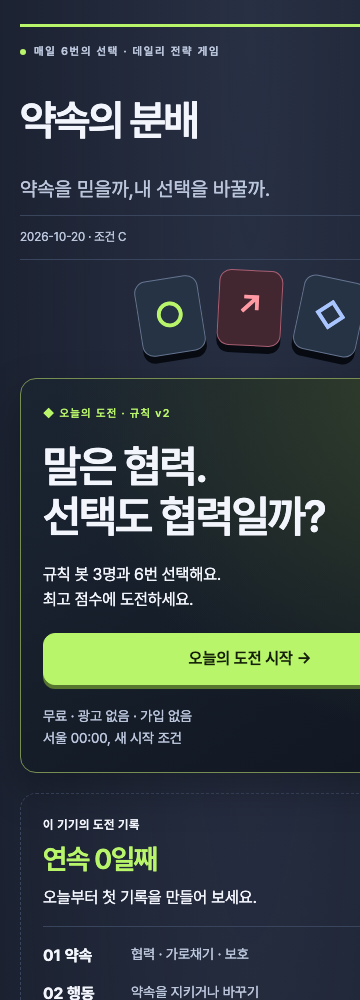
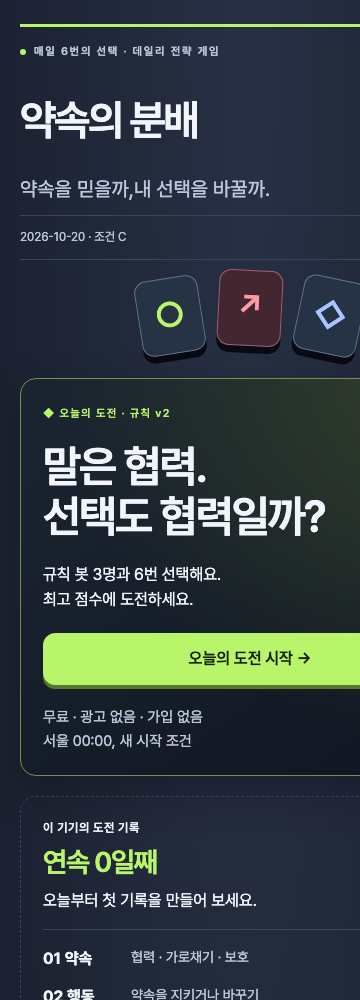
Loop 게시: promise-split

Changed region(s): [[0.1222, 0.806, 0.7028, 1.0], [0.1222, 0.713, 0.55, 0.744], [0.0611, 0.744, 0.0917, 0.775]]

diff --git a/promise-split/app.js b/promise-split/app.js
@@ -33,14 +33,14 @@ if(state.phase==='action')html+='<div class="card"><h3>공개된 약속</h3>'+na
 else html+='<p>봇의 약속은 내가 확정한 뒤 함께 공개돼요. 실제 행동은 다음 단계에서 바꿀 수 있어요.</p>';
 html+=choiceButtons()+`<details><summary>현재 전체 점수</summary>${scores()}</details>`;}
 else if(state.phase==='reveal'){const h=state.history.at(-1);html=summary()+`<div class="card stack reveal"><h2 class="play-heading" tabindex="-1">가로채기 ${h.k}명</h2><p>${h.k===0?'모두 가로채지 않았어요. 협력 +3, 보호 +1.':h.k===1?'한 명만 가로챘어요. 가로채기 +5, 협력 −2, 보호 0.':'가로채기가 겹쳤어요. 가로채기 −2, 협력 0, 보호 +1.'} 최저 점수는 0점이에요.</p>${names.map((n,i)=>`<p><strong>${n} ${h.deltas[i]>0?'+':''}${h.deltas[i]}점</strong><br><span class="meta">약속 ${h.promises[i]} ${labels[h.promises[i]]} → 행동 ${h.actions[i]} ${labels[h.actions[i]]}${h.promises[i]===h.actions[i]?' · 지킴':' · 바꿈'}</span></p>`).join('')}</div><button class="primary" id="next">${state.round===6?'최종 결과 보기':'다음 라운드 →'}</button>`;}
-else{const r=E.result(state);html=`<h2 class="play-heading" tabindex="-1">${state.mode==='practice'?'연습 완료':'오늘의 도전 완료'}</h2><div class="card stack"><p>${outcomeText(r)}</p><p>${r.tied?'공동 ':''}${r.rank}위 · 4명 중</p><p class="meta">🟩 승리 · 🟥 패배 · 🟨 무승부<br>공동 1위는 완료·연속 기록에 포함하고 승리에는 포함하지 않아요.</p><div class="result-score"><b class="score">${r.score}</b><strong>점</strong></div><p>약속 ${r.kept}/6번 지킴</p></div><div><div class="grid6" aria-label="라운드별 점수 변화">${r.deltas.map((d,i)=>`<span class="tile ${d>0?'gain':d<0?'loss':''}" aria-label="${i+1}라운드 ${d>0?'증가':d<0?'감소':'동일'}">${d>0?'+':d<0?'−':'='}</span>`).join('')}</div><p class="grid-description">1 → 6라운드 · + 증가 / = 동일 / − 감소<br>약속 준수와 별개인 실제 점수 변화예요.</p></div><p><strong>연속 기록 ${streak()}일째</strong><br>${streak()===0?'오늘부터 다시 시작해요.<br>':''}내일은 새 조건으로 다시 만나요.<br><span class="meta">서울 00:00 · 날짜가 바뀌면 새 도전을 열어주세요.</span></p><div class="result-actions"><button id="share" class="primary">결과 공유 · 너는 몇 점?</button><button id="copy">결과 복사</button><textarea id="fallback" aria-label="복사할 결과 텍스트" readonly hidden></textarea><button id="practice">같은 조건으로 연습</button><button id="today">오늘의 도전 열기</button></div>${hostPackCTA()}<details><summary>6라운드 전체 기록</summary><div class="logs">${state.history.map(h=>`<article><b>${h.round}라운드 · 가로채기 k=${h.k}</b>${names.map((n,i)=>`<p>${n}: 약속 ${h.promises[i]} → 행동 ${h.actions[i]}<br>${h.deltas[i]>=0?'+':''}${h.deltas[i]}점 → ${h.scores[i]}점</p>`).join('')}</article>`).join('')}</div></details>${scores()}`;}
+else{const r=E.result(state);html=`<h2 class="play-heading" tabindex="-1">${state.mode==='practice'?'연습 완료':'오늘의 도전 완료'}</h2><div class="card stack"><p>${outcomeText(r)}</p><p>${r.tied?'공동 ':''}${r.rank}위 · 4명 중</p><p class="meta">🟩 승리 · 🟥 패배 · 🟨 무승부<br>공동 1위는 완료·연속 기록에 포함하고 승리에는 포함하지 않아요.</p><div class="result-score"><b class="score">${r.score}</b><strong>점</strong></div><p>약속 ${r.kept}/6번 지킴</p></div><div><div class="grid6" aria-label="라운드별 점수 변화">${r.deltas.map((d,i)=>`<span class="tile ${d>0?'gain':d<0?'loss':''}" aria-label="${i+1}라운드 ${d>0?'증가':d<0?'감소':'동일'}">${d>0?'+':d<0?'−':'='}</span>`).join('')}</div><p class="grid-description">1 → 6라운드 · + 증가 / = 동일 / − 감소<br>약속 준수와 별개인 실제 점수 변화예요.</p></div><p><strong>연속 기록 ${streak()}일째</strong><br>${streak()===0?'오늘부터 다시 시작해요.<br>':''}내일은 새 조건으로 다시 만나요.<br><span class="meta">서울 00:00 · 날짜가 바뀌면 새 도전을 열어주세요.</span></p><p class="share-quote">약속 ${r.kept}번, 결과 ${r.score}점.<br>내 선택은 어떤 전략이었을까?</p><div class="result-actions"><button id="share" class="primary">결과 공유 · 너는 몇 점?</button><button id="copy">결과 복사</button><textarea id="fallback" aria-label="복사할 결과 텍스트" readonly hidden></textarea><button id="practice">같은 조건으로 연습</button><button id="today">오늘의 도전 열기</button></div>${hostPackCTA()}<details><summary>6라운드 전체 기록</summary><div class="logs">${state.history.map(h=>`<article><b>${h.round}라운드 · 가로채기 k=${h.k}</b>${names.map((n,i)=>`<p>${n}: 약속 ${h.promises[i]} → 행동 ${h.actions[i]}<br>${h.deltas[i]>=0?'+':''}${h.deltas[i]}점 → ${h.scores[i]}점</p>`).join('')}</article>`).join('')}</div></details>${scores()}`;}
 $('game').innerHTML=html;bind();if(focus)$('game').querySelector('.play-heading')?.focus();}
 function bind(){document.querySelectorAll('[data-choice]').forEach(b=>b.onclick=()=>{selected=b.dataset.choice;document.querySelectorAll('[data-choice]').forEach(x=>x.setAttribute('aria-pressed',String(x===b)));$('confirm').disabled=false;$('confirm').textContent=(state.phase==='promise'?'약속':'실제 행동')+' 확정 · '+labels[selected];});if($('start'))$('start').onclick=()=>start(targetDate,targetDate<E.day()?'practice':'daily');if($('reload'))$('reload').onclick=()=>location.reload();if($('confirm'))$('confirm').onclick=()=>advance(()=>state.phase==='promise'?E.promise(state,selected):E.act(state,selected));if($('next'))$('next').onclick=()=>advance(()=>E.next(state));if($('share'))$('share').onclick=()=>share(false);if($('copy'))$('copy').onclick=()=>share(true);if($('practice'))$('practice').onclick=()=>start(state.date,'practice');if($('today'))$('today').onclick=()=>{location.href=location.pathname+'?v=2';};}
 function advance(fn){if(locked||!state)return;const previous=state;const n=fn();state=n;if(!persist()){state=previous;return;}if(state.phase==='result')finish();render(true);}
 function start(date,mode){if(mode==='daily'){const raw=read(PREFIX+'daily:'+date);if(raw){try{const x=JSON.parse(raw);if(E.validate(x)&&x.date===date&&x.mode==='daily'){state=x;rev=raw;if(state.phase==='result')finish();render();return;}}catch{}warn('이 날짜의 저장 기록을 복원할 수 없어 새로 시작해요.');}rev=raw;}
 state=E.create(date,mode);if(!persist())return;count(mode==='daily'?'start':'practice_start');render(true);}
 function outcomeText(r){return r.rank===1?(r.tied?'🟨 무승부 (공동 1위)':'🟩 단독 승리'):'🟥 패배';}
-function shareText(){const r=E.result(state);const base=location.protocol==='https:'&&location.hostname!=='localhost'&&location.hostname!=='127.0.0.1'?location.origin+location.pathname.replace(/index\.html$/,''):'https://leekyounglyul.github.io/gatsaeng/promise-split/';return `약속의 분배 ${state.date} · v2 · 조건 ${'ABC'[E.condition(state.date)]}${state.mode==='practice'?' · 연습':''}\n${outcomeText(r)}\n${r.tied?'공동 ':''}${r.rank}위 · ${r.score}점 · 약속 ${r.kept}/6\n${r.deltas.map(d=>d>0?'🟩':d<0?'🟥':'⬜').join('')}\n최종 결과: 🟩 승리 / 🟥 패배 / 🟨 무승부\n라운드 점수: 🟩 증가 / 🟥 감소 / ⬜ 동일\n증가·동일·감소: ${r.deltas.map(d=>d>0?'+':d<0?'−':'=').join(' ')}\n너는 몇 점? ${base}?date=${state.date}&v=2`;}
+function shareText(){const r=E.result(state);const base=location.protocol==='https:'&&location.hostname!=='localhost'&&location.hostname!=='127.0.0.1'?location.origin+location.pathname.replace(/index\.html$/,''):'https://leekyounglyul.github.io/gatsaeng/promise-split/';return `약속의 분배 ${state.date} · v2 · 조건 ${'ABC'[E.condition(state.date)]}${state.mode==='practice'?' · 연습':''}\n${outcomeText(r)}\n약속 ${r.kept}번, 결과 ${r.score}점. 내 선택은 어떤 전략이었을까?\n${r.tied?'공동 ':''}${r.rank}위 · ${r.score}점 · 약속 ${r.kept}/6\n${r.deltas.map(d=>d>0?'🟩':d<0?'🟥':'⬜').join('')}\n최종 결과: 🟩 승리 / 🟥 패배 / 🟨 무승부\n라운드 점수: 🟩 증가 / 🟥 감소 / ⬜ 동일\n증가·동일·감소: ${r.deltas.map(d=>d>0?'+':d<0?'−':'=').join(' ')}\n너는 몇 점? ${base}?date=${state.date}&v=2`;}
 async function share(copyOnly){const text=shareText();count('share_intent');if(!copyOnly&&navigator.share){try{await navigator.share({text});$('feedback').textContent='공유 창을 닫았어요.';return;}catch(e){if(e.name==='AbortError'){count('share_cancel');return;}}}try{await navigator.clipboard.writeText(text);$('feedback').textContent='결과를 복사했어요.';}catch{$('fallback').hidden=false;$('fallback').value=text;$('fallback').focus();$('fallback').select();$('feedback').textContent='텍스트를 길게 누르거나 선택해 복사하세요.';}}
 window.addEventListener('storage',e=>{if(state?.mode==='daily'&&e.key===key()&&e.newValue!==rev){locked=true;warn('다른 탭에서 기록이 바뀌었어요.');render();}});
 $('tutorial').onclick=()=>{const box=$('trial');box.hidden=false;box.innerHTML='<p>체험: 봇이 C·C·G를 골랐어요. 나는?</p>'+E.A.map(a=>`<button data-trial="${a}">${a} ${labels[a]}</button>`).join('');box.querySelectorAll('button').forEach(b=>b.onclick=()=>{const x=E.score([b.dataset.trial,'C','C','G'],[10,10,10,10]);box.innerHTML=`<p>나는 ${labels[b.dataset.trial]}! ${x.deltas[0]>=0?'+':''}${x.deltas[0]}점 → ${x.scores[0]}점.</p><p class="meta">체험은 기록에 남지 않아요. 사용법 버튼으로 다시 열 수 있어요.</p>`;});};

diff --git a/promise-split/index.html b/promise-split/index.html
@@ -20,6 +20,14 @@ summary{min-height:52px;color:var(--ps-ink);font-size:15px}details{border-top:1p
 @media(min-width:700px){.shell{padding-top:40px}.hero h1{font-size:42px}}
 @media(max-width:359px){.shell{padding-left:16px;padding-right:16px}.hero{grid-template-columns:minmax(0,1fr) 68px}.hero .stage-emblem{width:68px;height:68px}.card{padding:18px}#game:has(.result-actions){padding:20px 14px}.result-score .score{font-size:84px}}
 @media(prefers-reduced-motion:reduce){*,*:before,*:after{animation:none!important;transition:none!important}}
+/* 컨테이너·자식의 패딩/테두리를 실제 너비 안에 포함한다. */
+*,*::before,*::after{box-sizing:border-box}
+html,body{margin:0;min-width:0;width:100%}
+.shell{width:min(100%,520px);max-width:100%;min-width:0}
+#game,.progress,.choices,.scoreline,.players,.card{width:100%;min-width:0;max-width:100%}
+.progress i{min-width:0;max-width:100%}
+#game>.card:has(#start)>.meta{font-size:15px;line-height:1.6}
+.share-quote{font-size:20px;line-height:1.45;font-weight:600;color:var(--ps-teal);padding:12px 0}
 /* 360px: 중첩 grid 항목이 콘텐츠 최소 너비로 트랙을 늘리지 않게 한다. */
 #game,.card,.result-actions,.result-actions>*{min-width:0;max-width:100%}
 .result-actions{grid-template-columns:minmax(0,1fr)}
@@ -27,4 +35,4 @@ summary{min-height:52px;color:var(--ps-ink);font-size:15px}details{border-top:1p
 .players>*{min-width:0;overflow-wrap:anywhere}
 .row{flex-wrap:wrap}.row>*{min-width:0}
 textarea{min-width:0;max-width:100%;white-space:pre-wrap;overflow-wrap:anywhere}
-</style></head><body><main class="shell stack"><header><p class="label">매일 6번의 선택 · 데일리 전략 게임</p><div class="hero"><h1>약속의 분배<span class="title-mark" aria-hidden="true">↗</span></h1><svg class="stage-emblem" viewBox="0 0 100 100" aria-hidden="true"><path d="M50 4 92 27v46L50 96 8 73V27Z" fill="#171F2E" stroke="#6C7C96"/><path d="M50 16 82 34v33L50 85 18 67V34Z" fill="none" stroke="#B9F56A"/><path d="M50 24v51M27 37l46 26M73 37 27 63" stroke="#52633D"/><path d="m50 29 20 12-20 31-20-31Z" fill="#B9F56A"/><path d="M50 29v43l20-31Z" fill="#6B9C3D"/></svg><p>약속을 믿을까,<br>내 선택을 바꿀까.</p></div><div class="row meta"><span id="date"></span><strong id="streak">연속 기록 0일째</strong></div><div class="stage-tokens" aria-hidden="true"><span>○</span><span>↗</span><span>◇</span></div></header><p id="notice" role="status" class="notice" hidden></p><section id="game" class="stack" aria-label="오늘의 게임"></section><p id="feedback" role="status"></p><section class="stack" aria-labelledby="how"><details open><summary id="how">처음이라면 · 사용법과 점수표</summary><div class="stack rules"><div class="card"><strong>같은 시작, 다른 선택.</strong><p>나와 규칙 봇 3명이 10점에서 시작해요. 6라운드 후 점수가 가장 높은 사람이 이겨요. 시간제한·현실 보상은 없어요.</p></div><div class="card"><h3>01 약속 → 02 실제 행동</h3><p>먼저 할 행동을 약속하세요. 모두의 약속을 보고 실제 행동을 고르세요. 약속을 바꿔도 벌점은 없어요.</p><p class="meta">봇은 날짜와 공개된 행동 이력으로 선택해요. 내 실제 선택을 보기 전에 행동을 확정해요.</p></div><div class="card"><h3>가로채기가 몇 명일까?</h3><div class="table-wrap"><table><caption>한 라운드의 점수 변화 · 최저 0점</caption><thead><tr><th>가로채기 인원</th><th>C 협력</th><th>T 가로채기</th><th>G 보호</th></tr></thead><tbody><tr><th>0명</th><td>+3</td><td>—</td><td>+1</td></tr><tr><th>1명</th><td>−2</td><td>+5</td><td>0</td></tr><tr><th>2명 이상</th><td>0</td><td>−2</td><td>+1</td></tr></tbody></table></div></div><div class="card"><h3>상대는 모두 규칙 봇</h3><p>봇 A·B·C는 공통 분위기와 각자의 선택을 섞어요. 내가 2번 연속 가로채면 다음 라운드에는 한 봇이 가로채고 나머지는 보호해요. 같은 행동만 반복하기보다 공개된 이력을 읽어보세요.</p></div><div class="card"><h3>팁 · 약속과 점수는 별개</h3><p>격자는 약속 준수가 아니라 점수 변화를 나타내요. 약속 준수는 별도 숫자로 보여줘요.</p></div><p class="notice">기록은 이 브라우저에만 저장돼요. 기록 삭제·시계 변경으로 다시 도전할 수 있어 공인 순위가 아니에요. 연습·과거 도전은 연속 기록에 포함하지 않아요.</p><button id="tutorial">세 버튼으로 1회 체험</button><div id="trial" class="card" hidden></div></div></details><details><summary>이 기기의 기록 · 2주 관찰</summary><div id="metrics" class="rules"></div><p class="meta">외부 전송·개인 식별 없음. 공유 클릭은 실제 공유 완료가 아니며, 회사 전체 이용 통계로 집계되지 않아요.</p><button id="erase">이 게임의 기기 기록 삭제</button></details><button id="install">홈 화면에 추가하는 법</button><p id="install-help" class="meta" hidden></p></section><footer class="divider"><a href="../">갓생 도구함 ↗</a><p class="meta">문의 <a href="mailto:atomo_studio@naver.com">atomo_studio@naver.com</a></p><p class="endorsement">갓생 연구소 · by Atomo Studio</p></footer><noscript>이 게임은 JavaScript를 켜야 실행할 수 있습니다.</noscript></main></body></html>
+</style></head><body><main class="shell stack"><header><p class="label">매일 6번의 선택 · 데일리 전략 게임</p><div class="hero"><h1>약속의 분배<span class="title-mark" aria-hidden="true">↗</span></h1><svg class="stage-emblem" viewBox="0 0 100 100" aria-hidden="true"><path d="M50 4 92 27v46L50 96 8 73V27Z" fill="#171F2E" stroke="#6C7C96"/><path d="M50 16 82 34v33L50 85 18 67V34Z" fill="none" stroke="#B9F56A"/><path d="M50 24v51M27 37l46 26M73 37 27 63" stroke="#52633D"/><path d="m50 29 20 12-20 31-20-31Z" fill="#B9F56A"/><path d="M50 29v43l20-31Z" fill="#6B9C3D"/></svg><p>약속을 믿을까,<br>내 선택을 바꿀까.</p></div><div class="row meta"><span id="date"></span><strong id="streak">연속 기록 0일째</strong></div><div class="stage-tokens" aria-hidden="true"><span>○</span><span>↗</span><span>◇</span></div></header><p id="notice" role="status" class="notice" hidden></p><section id="game" class="stack" aria-label="오늘의 게임"></section><p id="feedback" role="status"></p><section class="stack" aria-labelledby="how"><details open><summary id="how">처음이라면 · 사용법과 점수표</summary><div class="stack rules"><div class="card"><strong>같은 시작, 다른 선택.</strong><p>나와 규칙 봇 3명이 10점에서 시작해요. 6라운드 후 점수가 가장 높은 사람이 이겨요. 시간제한·현실 보상은 없어요.</p></div><div class="card"><h3>01 약속 → 02 실제 행동</h3><p>먼저 할 행동을 약속하세요. 모두의 약속을 보고 실제 행동을 고르세요. 약속을 바꿔도 벌점은 없어요.</p><p class="meta">봇은 날짜와 공개된 행동 이력으로 선택해요. 내 실제 선택을 보기 전에 행동을 확정해요.</p></div><div class="card"><h3>가로채기가 몇 명일까?</h3><div class="table-wrap"><table><caption>한 라운드의 점수 변화 · 최저 0점</caption><thead><tr><th>가로채기 인원</th><th>C 협력</th><th>T 가로채기</th><th>G 보호</th></tr></thead><tbody><tr><th>0명</th><td>+3</td><td>—</td><td>+1</td></tr><tr><th>1명</th><td>−2</td><td>+5</td><td>0</td></tr><tr><th>2명 이상</th><td>0</td><td>−2</td><td>+1</td></tr></tbody></table></div></div><div class="card"><h3>상대는 모두 규칙 봇</h3><p>봇 A·B·C는 공통 분위기와 각자의 선택을 섞어요. 내가 2번 연속 가로채면 다음 라운드에는 한 봇이 가로채고 나머지는 보호해요. 같은 행동만 반복하기보다 공개된 이력을 읽어보세요.</p></div><div class="card"><h3>팁 · 약속과 점수는 별개</h3><p>격자는 약속 준수가 아니라 점수 변화를 나타내요. 약속 준수는 별도 숫자로 보여줘요.</p></div><p class="notice">기록은 이 브라우저에만 저장돼요. 기록 삭제·시계 변경으로 다시 도전할 수 있어 공인 순위가 아니에요. 연습·과거 도전은 연속 기록에 포함하지 않아요.</p><button id="tutorial">세 버튼으로 1회 체험</button><div id="trial" class="card" hidden></div></div></details><details><summary>이 기기의 기록 · 2주 관찰</summary><div id="metrics" class="rules"></div><p class="meta">외부 전송·개인 식별 없음. 공유 클릭은 실제 공유 완료가 아니며, 회사 전체 이용 통계로 집계되지 않아요.</p><button id="erase">이 게임의 기기 기록 삭제</button></details><button id="install">홈 화면에 추가하는 법</button><p id="install-help" class="meta" hidden></p></section><footer class="divider"><a href="../">갓생 도구함 ↗</a><p class="meta">문의 <a href="mailto:atomo_studio@naver.com">atomo_studio@naver.com</a></p><p class="meta">jsDelivr CDN 글꼴 로드 · 개인정보 미수집. 게임 기록은 이 기기에만 저장됩니다.</p><p class="endorsement">갓생 연구소 · by Atomo Studio</p></footer><noscript>이 게임은 JavaScript를 켜야 실행할 수 있습니다.</noscript></main></body></html>

diff --git a/promise-split/sw.js b/promise-split/sw.js
@@ -1,5 +1,5 @@
 'use strict';
-const PREFIX='promise-split-cache-',CACHE=PREFIX+'v2-7-mobile-grid';
+const PREFIX='promise-split-cache-',CACHE=PREFIX+'v2-8-viewport-share';
 const FILES=['./','./index.html','./engine.js','./app.js','./tokens.css','./style.css','./manifest.webmanifest','./assets/Pretendard-Regular.woff','./assets/Pretendard-SemiBold.woff','./assets/icon.svg','./assets/icon-192.png','./assets/icon-512.png','./assets/icon-maskable-512.png'];
 // 업데이트는 게임 탭을 모두 닫은 뒤 활성화해 진행 중 판을 교체하지 않는다.
 self.addEventListener('install',event=>event.waitUntil(caches.open(CACHE).then(cache=>cache.addAll(FILES))));
